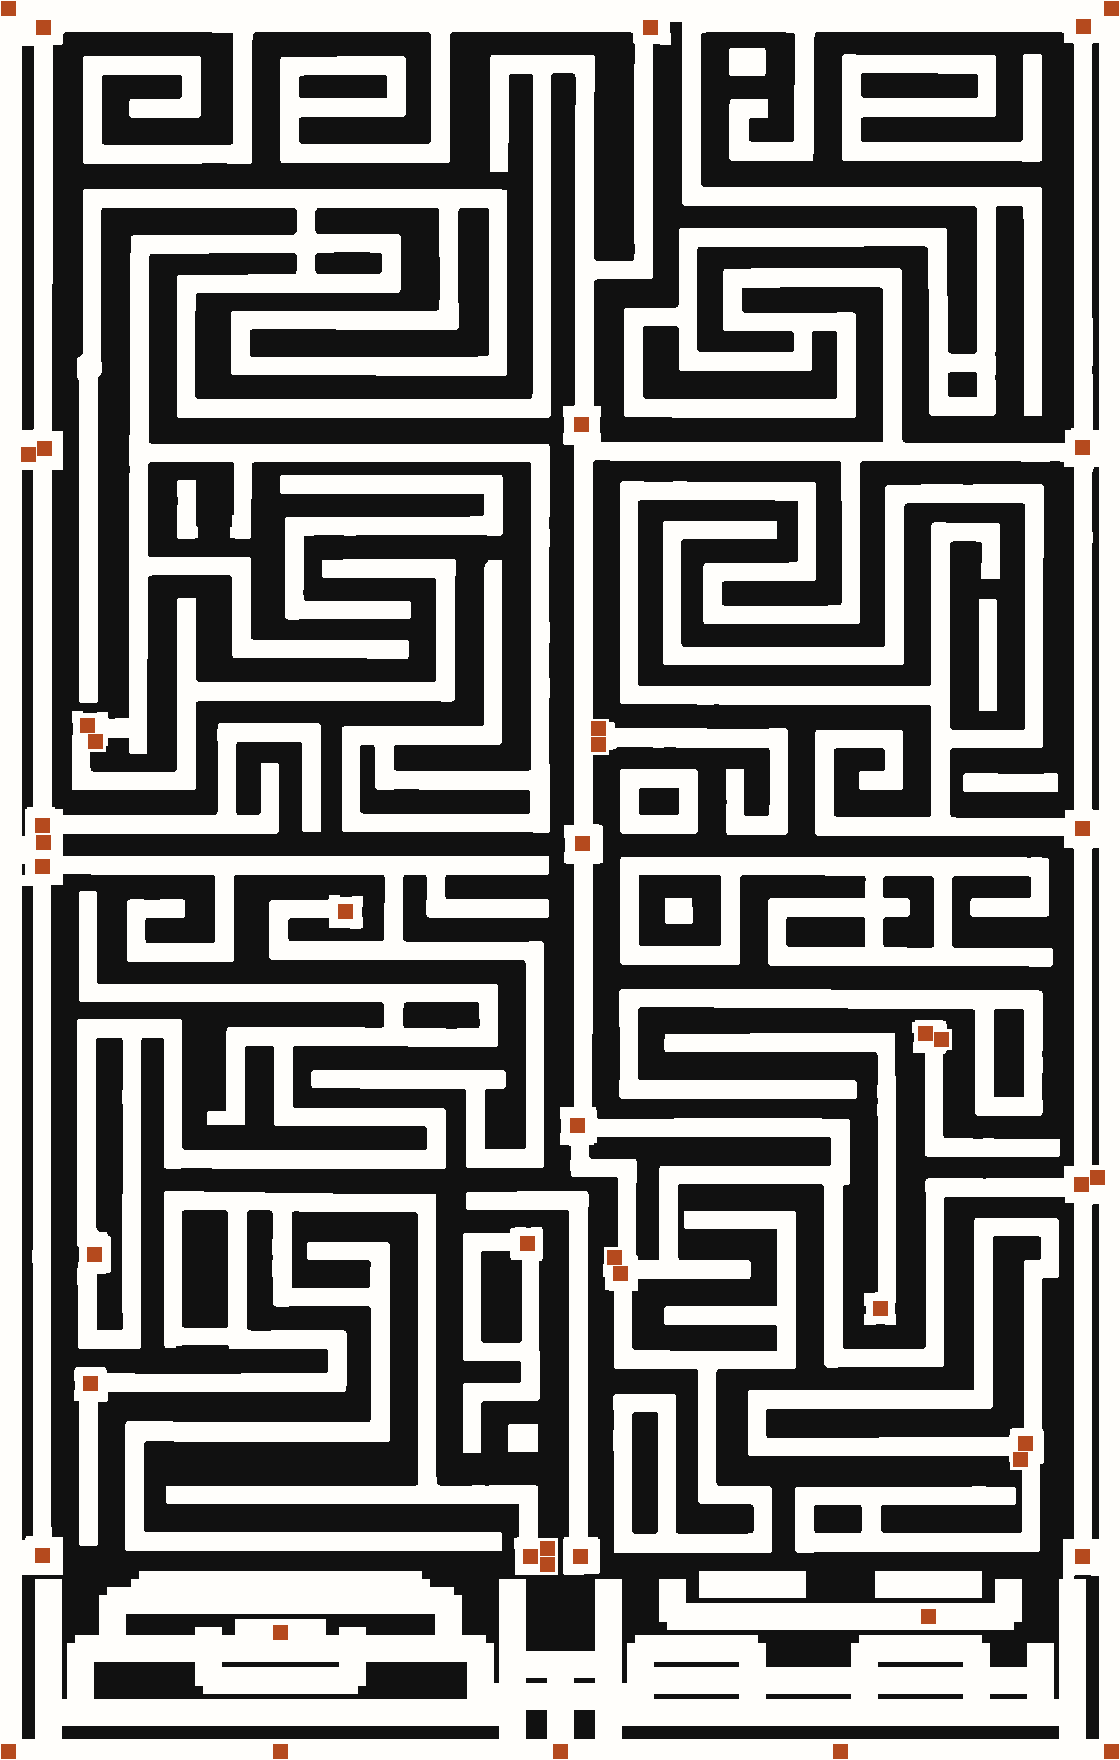
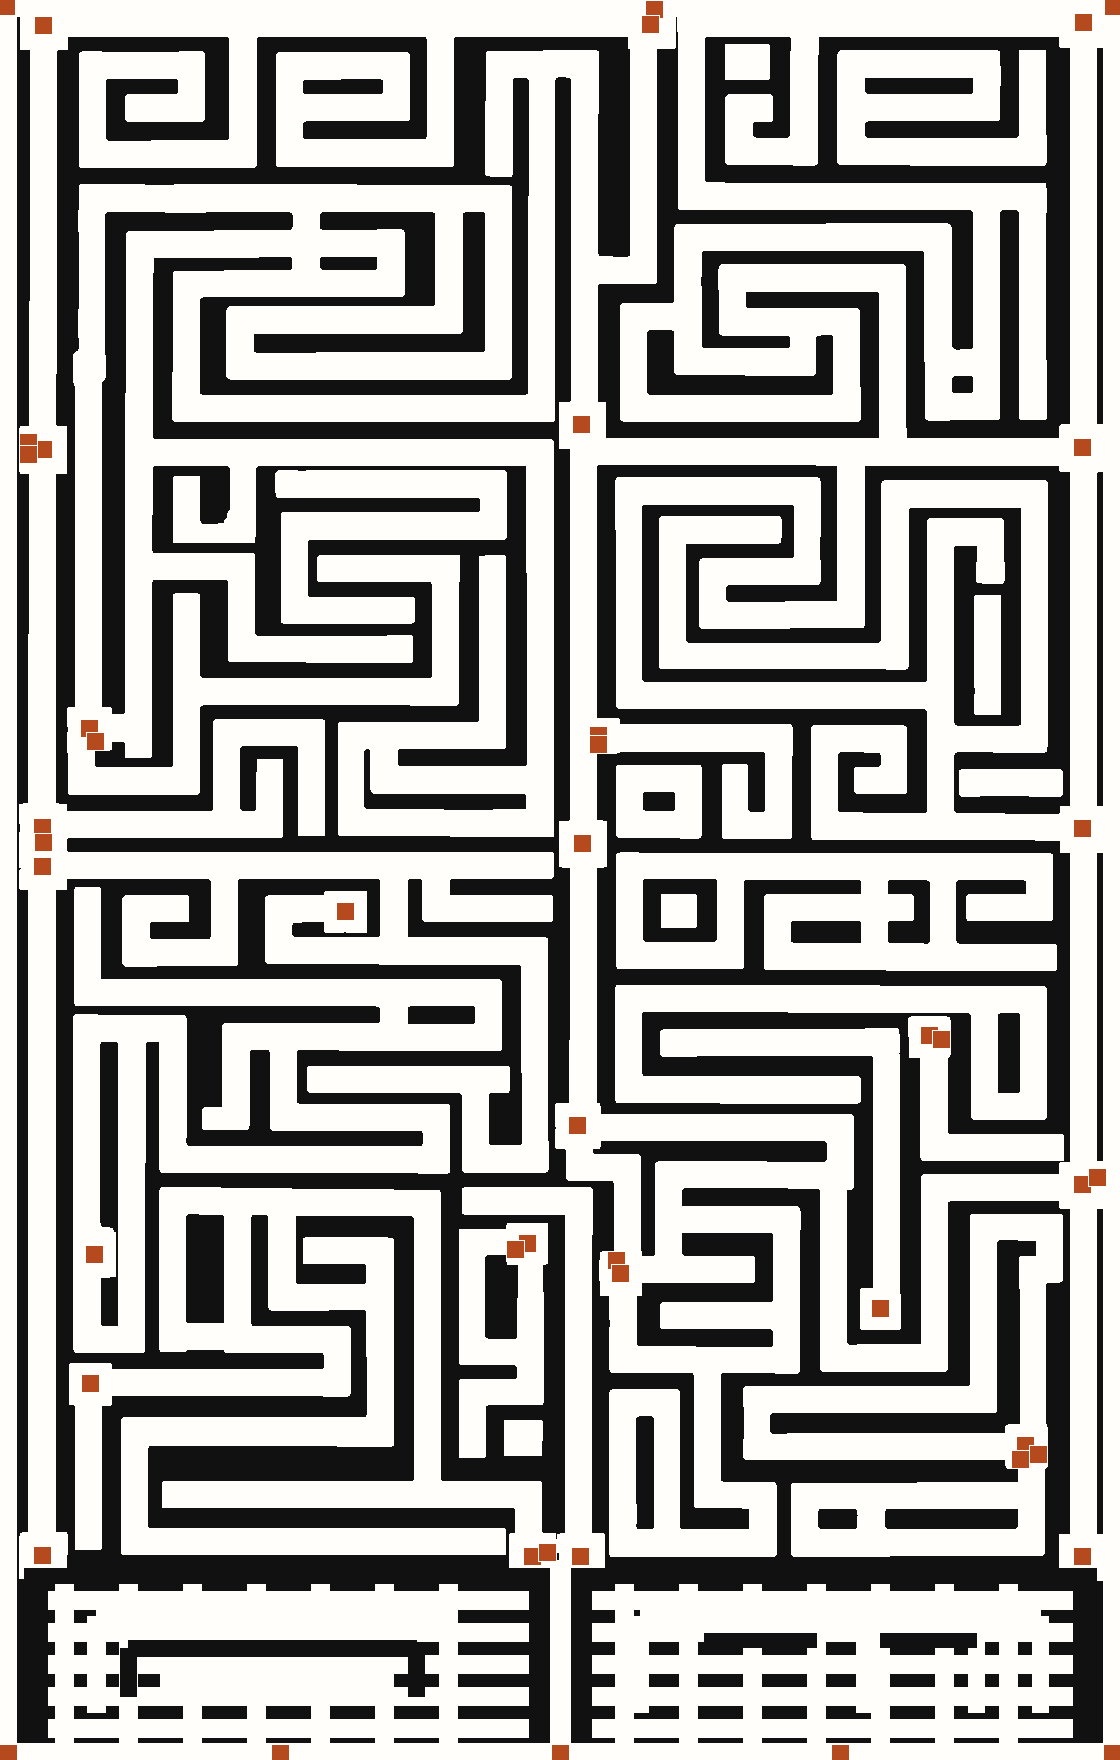
Ahnenraster: Weiß=erhabene Stege auf Schwarz, unten geschlossen
Polarität wie Foto; Zwischenräume schwarz; Raster bleibt.

Changed region(s): [[0.0, 0.0, 1.0, 1.0]]

diff --git a/src/components/hundredGeneration/HundredGenerationAhnenrasterBlatt.tsx b/src/components/hundredGeneration/HundredGenerationAhnenrasterBlatt.tsx
@@ -117,7 +117,7 @@ export function HundredGenerationAhnenrasterBlatt({
               background: isPrint ? '#f7f4ef' : 'rgba(0,0,0,0.08)',
             }}
           >
-            Schwarz = Zwischenraum (vertieft) · Weiß = erhaben · 2‑/10‑mm‑Raster · Platte H{' '}
+            Weiß = erhaben · Schwarz = Zwischenraum · 2‑/10‑mm‑Raster · Platte H{' '}
             {b.panelHoeheCm} · B {b.panelBreiteCm} cm
           </figcaption>
         </figure>

diff --git a/docs/DIALOG-STAND.md b/docs/DIALOG-STAND.md
@@ -1,11 +1,11 @@
 # Dialog-Stand
 
-**Was wir JETZT tun:** Ahnenraster-Zeichnung prüfen (richtige Polarität).
+**Was wir JETZT tun:** Ahnenraster-Zeichnung prüfen (Weiß=erhaben dick, Schwarz=Zwischenraum, unten geschlossen).
 
-**Einordnung:** Schwarz = Zwischenraum (vertieft), Weiß = erhaben – wie im Foto. CNC pausiert.
+**Einordnung:** Polarität wie Foto; unten ergänzt; Raster sichtbar. CNC pausiert.
 
-**Nächster Schritt:** Georg: Vergleich – Polarität und Linienbreite ok?
+**Nächster Schritt:** Georg: Vergleich – Weiß/Schwarz und unten jetzt ok?
 
-**Letzter Stand:** 11.09.26 – Polarität korrigiert (Schwarz=Zwischenraum, Weiß=erhaben). **Commit:**  ✅ **main**
+**Letzter Stand:** 11.09.26 – Weiß=erhaben (~1:1), unten geschlossen. **Commit:** (nach Push)
 
 ---
